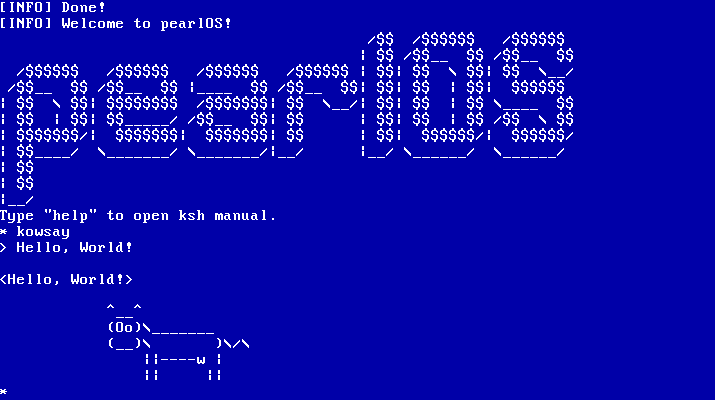
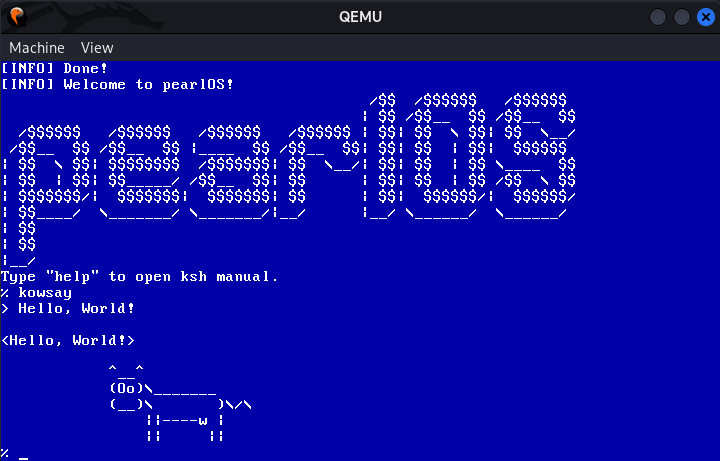
feat: Switch prompt to "%"
"%" objectively looks better than "*". I don't fucking care what me 7
months ago called "minimalist", I'm a maximalist outside of code
anyways. "%" looks better. Update image to correspond with this.

diff --git a/config/profiles/default/config.h b/config/profiles/default/config.h
@@ -14,7 +14,7 @@
 #define KERNEL_UPDATE
 
 /* ksh.h */
-#define KSH_PROMPT  "*"
+#define KSH_PROMPT  "%"
 #define KSH_COMMENT ';'
 
 /* mem.h */

diff --git a/kernel/config.h b/kernel/config.h
@@ -14,7 +14,7 @@
 #define KERNEL_UPDATE
 
 /* ksh.h */
-#define KSH_PROMPT  "*"
+#define KSH_PROMPT  "%"
 #define KSH_COMMENT ';'
 
 /* mem.h */
